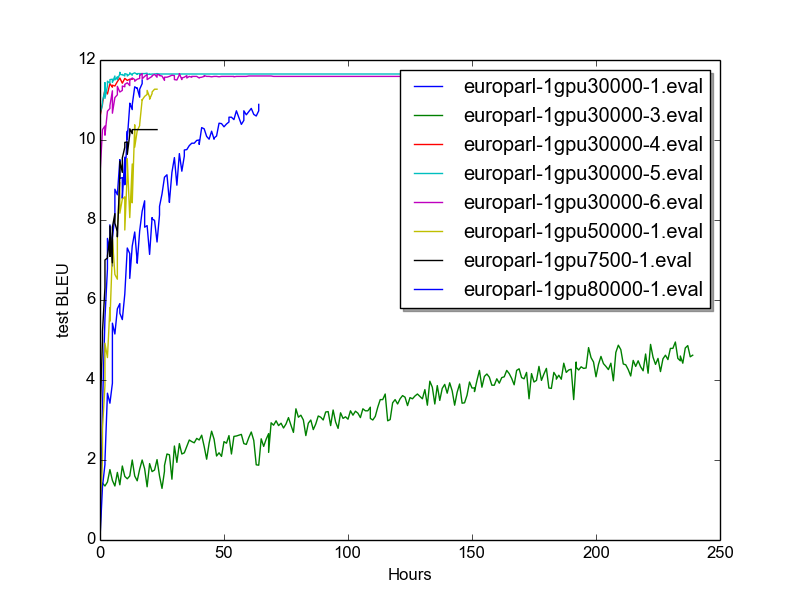
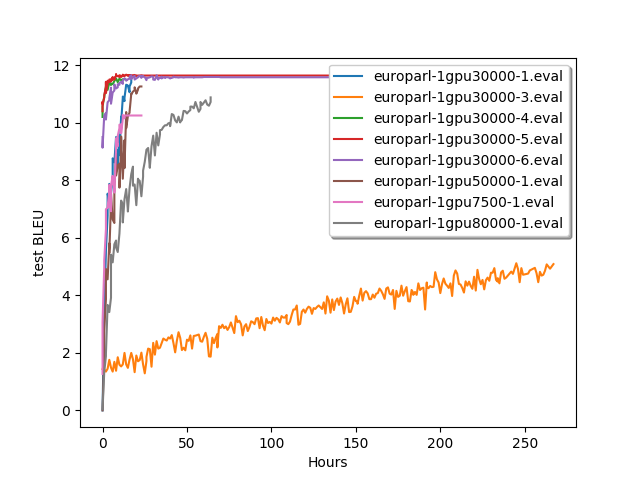
report part

diff --git a/report/report.tex b/report/report.tex
@@ -354,22 +354,22 @@ GoogleTranslate            |     ???         |   ?    |  ?      |  ?       |  ? 
 label                       | rychlost_epochy        |  epochs     |  best_test_BLEU
 ====================================================================================
 europarl-1gpu30000-1       |  82min_(save_every50)   |  1-15       |  11.50
-europarl-1gpu30000-3       |  41h_(save_every2000)   |  15-21-30?  |  4.95
+europarl-1gpu30000-3       |  41h_(save_every2000)   |  15-21-30*  |  5.12
 europarl-1gpu30000-4       |  37m_(save_every2000)   |  15-30      |  11.55
 europarl-1gpu30000-5       |  43m_(save_every2000)   |  30-90      |  11.69
 europarl-1gpu30000-6       |  100m_(save_every2000)  |  30-90      |  11.66
 europarl-1gpu50000-1       |  87min_(save_every50)   |  1-15       |  11.27
 europarl-1gpu7500-1        |  54min_(save_every50)   |  1-15       |  10.28
 europarl-1gpu80000-1       |  190min_(save_every50)  |  1-15       |  10.89
-osub-europarl-1gpu30000-1  |  20h20m_(save_every50)  |  1-14-15?   |  14.03
-osub-europarl-1gpu50000-1  |  26h24m_(save_every50)  |  1-11-15?   |  13.76
-osub-europarl-1gpu80000-1  |  21h47m_(save_every50)  |  1-14-15?   |  14.00
+osub-europarl-1gpu30000-1  |  20h20m_(save_every50)  |  1-15       |  14.15
+osub-europarl-1gpu50000-1  |  26h24m_(save_every50)  |  1-12-15*   |  14.02
+osub-europarl-1gpu80000-1  |  21h47m_(save_every50)  |  1-14-15*   |  14.00
 osub-europarl50000-2       |  8h13m_(save_every500)  |  1-20       |  14.91
 baseline-ZEMAN             |          -              |   -         |  13.99
 GoogleTranslate            |          -              |   -         | ?16.59?
 \end{verbatim}
 \caption{Doba trénování jedné epochy, epochy, pro které jsme spouštěli
-trénování a BLEU skóre na testovací množině různých konfigurací.}
+trénování (*:trénování jsme ukončili předčasně) a BLEU skóre na testovací množině různých konfigurací.}
 \label{tab:results}
 \end{table}
 
@@ -417,8 +417,13 @@ velkou roli. Důležitější než BPE je správně zvolit počet vrstev.
 \item Pro urychlení trénování s~OpenNMT-Lua je vhodné také správně zvolit parametry
 \texttt{-save\_every}, což je ukládání checkpointu po pevně zvoleném počtu
 iterací. Ukázalo se, že 50 je příliš nízké číslo. Každý checkpoint je totiž
-binární soubor o velikosti od 173 do 947 MB, to se liší podle BPE a počtu
-vrstev. Ukládání na disk zabírá čas a zdržuje trénink.
+binární soubor o velikosti od 173 do 947 MB (to se liší podle BPE a počtu
+vrstev) a jeho ukládání na disk zabírá čas a zdržuje trénink.
+% TODO: vyzkoušet s debug výpisy, jestli je to tak, třeba se to ukládá asynchronně...
+
+\item Kdybchom nechali některé konfigurace trénovat déle, pravděpodobně
+bychom dosáhli ještě lepších výsledků. Také bychom mohli vyzkoušet
+průměrování modelů, OpenNMT to umožňuje. 
   
 
 
